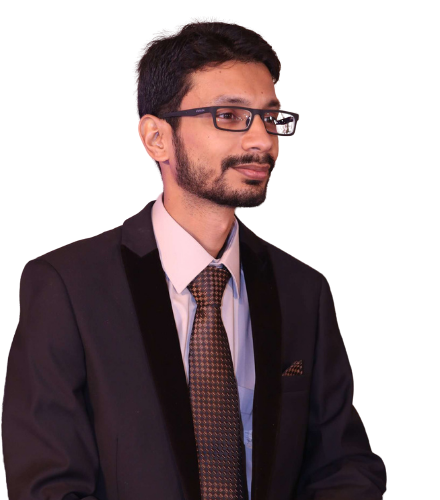
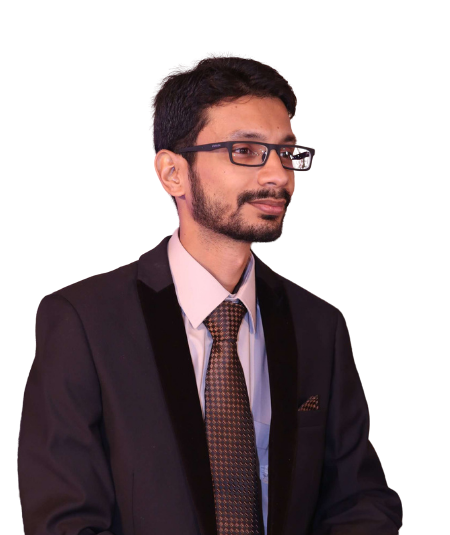
everything done except firebase

diff --git a/pages/about-us/our-team.jsx b/pages/about-us/our-team.jsx
@@ -2,7 +2,6 @@ import Head from 'next/head'
 import styles from '../../styles/OurTeam.module.scss'
 import { Container, Box, Grid, List, Divider, ListItem, ListItemText, ListItemIcon, Button, Stack } from '@mui/material'
 import { BrowserView, isDesktop, isMobile, MobileView } from 'react-device-detect';
-import { useEffect, useLayoutEffect, useState } from 'react';
 import Card from '@mui/material/Card';
 import CardActions from '@mui/material/CardActions';
 import CardContent from '@mui/material/CardContent';
@@ -13,23 +12,20 @@ import LinkedInIcon from '@mui/icons-material/LinkedIn';
 import Image from 'next/image';
 
 const OurTeam = () => {
-    const [source, setSource] = useState('');
-    useLayoutEffect(() => {
-        isMobile ? setSource('/ourteammobile.png') : setSource('/ourteamdesktop.png')
-    }, [])
     return (
         <>
-            <img src={source} width="100%" />
+            <Box sx={{ display: { xs: 'none', sm: 'flex' } }}><img src='/ourteamdesktop.png' width="100%" /></Box>
+            <Box sx={{ display: { xs: 'flex', sm: 'none' } }}><img src='/ourteammobile.png' width="100%" /></Box>
             <Container maxWidth="lg">
                 <Head>
                     <title>Our Team</title>
-                    <meta name="description" content="Generated by create next app" />
+                    <meta name="description" content="Magical Digits team" />
                     <link rel="icon" href="/favicon.ico" />
                     <link rel="preconnect" href="https://fonts.googleapis.com" />
                     <link rel="preconnect" href="https://fonts.gstatic.com" crossOrigin />
                     <link href="https://fonts.googleapis.com/css2?family=Dosis&display=swap" rel="stylesheet" />
                 </Head>
-                <h1 className={styles.heading}>Our Team.</h1>
+                <h1 className={styles.heading}>Our Team</h1>
                 <h6 className={styles.description2}>Individual dedication to a group effort is what makes a team, a company, a community, or a civilization work.
                     At Magical Digits we push each other to bring out the best in all of us. We believe in enjoying the process rather than concentrating solely on the goal.
                     We are a team of over 20 professionals who work both on-site and remotely.</h6>
@@ -54,7 +50,7 @@ const OurTeam = () => {
                             <CardContent sx={{ textAlign: 'center' }}>
                                 <h1 style={{ margin: 0 }}>Ozair Khalid</h1>
                                 <h3 style={{ margin: 0 }}>CEO</h3>
-                                <h4 style={{ margin: 0 }}>2002-present</h4>
+                                <h4 style={{ margin: 0 }}>2004-present</h4>
                             </CardContent>
                             <CardActions sx={{ justifyContent: 'center' }}>
                                 <a href='mailto:ozairkhalid@magicaldigits.com' target="_blank">
@@ -154,7 +150,7 @@ const OurTeam = () => {
                                 component="img"
                                 width='100%'
                                 height='400px'
-                                image="/staff/aa.png"
+                                image="/staff/aaa.png"
                                 alt="Abdullah Ansari"
                             />
                             <CardContent sx={{ textAlign: 'center' }}>
@@ -179,7 +175,7 @@ const OurTeam = () => {
                         </Card>
                     </Grid>
                     <Grid item xs={12} sm={6} md={4}>
-                        <Card>
+                        <Card elevation={4} sx={{m:1}}>
                             <CardMedia
                                 className={styles.img}
                                 component="img"

diff --git a/pages/careers.jsx b/pages/careers.jsx
@@ -13,6 +13,11 @@ import GroupsIcon from '@mui/icons-material/Groups';
 import CardGiftcardIcon from '@mui/icons-material/CardGiftcard';
 import MoneyIcon from '@mui/icons-material/Money';
 import WorkIcon from '@mui/icons-material/Work';
+import Dialog from '@mui/material/Dialog';
+import DialogActions from '@mui/material/DialogActions';
+import DialogContent from '@mui/material/DialogContent';
+import DialogContentText from '@mui/material/DialogContentText';
+import DialogTitle from '@mui/material/DialogTitle'
 
 export const getStaticProps = () => {
     const jobs = [
@@ -31,6 +36,15 @@ export const getStaticProps = () => {
 const Careers = ({ jobs }) => {
     const [searchText, setSearchText] = useState('');
     const [showResult, setShowResult] = useState(jobs);
+    const [openJob1, setOpenJob1] = useState(false);
+
+    const handleClickOpenJob1 = () => {
+        setOpenJob1(true);
+    };
+
+    const handleCloseJob1 = () => {
+        setOpenJob1(false);
+    };
 
     const handleSubmit = (event) => {
         event.preventDefault();
@@ -207,6 +221,7 @@ const Careers = ({ jobs }) => {
                                     color="secondary"
                                     className={styles.animatedButton}
                                     sx={{ mt: 1 }}
+                                    onClick={handleClickOpenJob1}
                                 >
                                     View Details
                                 </Button></Box>
@@ -214,7 +229,28 @@ const Careers = ({ jobs }) => {
                         </Grid>
                     )) : <h6 className={styles.description}>No jobs found for this keyword.</h6>}
                 </Grid>
-
+                <Dialog open={openJob1} onClose={handleCloseJob1}>
+                    <DialogTitle>Subscribe</DialogTitle>
+                    <DialogContent>
+                        <DialogContentText>
+                            To subscribe to this website, please enter your email address here. We
+                            will send updates occasionally.
+                        </DialogContentText>
+                        <TextField
+                            autoFocus
+                            margin="dense"
+                            id="name"
+                            label="Email Address"
+                            type="email"
+                            fullWidth
+                            variant="standard"
+                        />
+                    </DialogContent>
+                    <DialogActions>
+                        <Button onClick={handleCloseJob1}>Cancel</Button>
+                        <Button onClick={handleCloseJob1}>Subscribe</Button>
+                    </DialogActions>
+                </Dialog>
             </Container>
         </>
     )

diff --git a/styles/OurTeam.module.scss b/styles/OurTeam.module.scss
@@ -1,5 +1,5 @@
-$primary: #00478F;
-$secondary: #FF5D00;
+$primary: #000;
+$secondary: #00478F;
 
 
 .title,
@@ -25,7 +25,7 @@ $secondary: #FF5D00;
     position: absolute;
     top: 20vw;
     left: 30vw;
-    background: -webkit-linear-gradient($primary, #40AFFF);
+    background: -webkit-linear-gradient($secondary, #40AFFF);
     -webkit-background-clip: text;
     -webkit-text-fill-color: transparent;
     font-size: 10vw;
@@ -40,14 +40,15 @@ $secondary: #FF5D00;
 }
 
 .stats {
-    font-size: 6vw;
+    font-size: 60px;
     color: $primary;
 }
 
 .stats:hover {
-    font-size: 6vw;
+    font-size: 70px;
     color: $secondary;
 }
+
 
 .img {
     -webkit-transform: scale(1);
@@ -62,22 +63,18 @@ $secondary: #FF5D00;
     -webkit-transform: scale(1.1);
     -ms-transform: scale(1.1);
     transform: scale(1.1);
-    background-color:#00478F;
-  background-image: 
-    repeating-linear-gradient(
-      45deg,
-      rgba(0,0,0,0.8),
-      rgba(0,0,0,0.8) 100px,
-      transparent 0px,
-      transparent 200px
-    ),
-    repeating-linear-gradient(
-      -45deg,
-      rgba(0,0,0,0.5),
-      rgba(0,0,0,0.5) 100px,
-      transparent 0px,
-      transparent 200px
-    );
+    background-color: #00478F;
+    background-image:
+        repeating-linear-gradient(45deg,
+            rgba(0, 0, 0, 0.8),
+            rgba(0, 0, 0, 0.8) 100px,
+            transparent 0px,
+            transparent 200px),
+        repeating-linear-gradient(-45deg,
+            rgba(0, 0, 0, 0.5),
+            rgba(0, 0, 0, 0.5) 100px,
+            transparent 0px,
+            transparent 200px);
 }
 
 
@@ -86,8 +83,10 @@ $secondary: #FF5D00;
     .heading {
         position: absolute;
         top: 50vw;
-        left: 35vw;
-        font-size: 10vw;
-        color: rgba(255, 93, 0, 0.7);
+        left: 22vw;
+        font-size: 16vw;
+        background: -webkit-linear-gradient($secondary, #40AFFF);
+        -webkit-background-clip: text;
+        -webkit-text-fill-color: transparent;
     }
 }

diff --git a/pages/_app.jsx b/pages/_app.jsx
@@ -5,6 +5,7 @@ import createEmotionCache from '../utility/createEmotionCache';
 import lightTheme from '../styles/theme/lightTheme';
 import '../styles/globals.scss';
 import Layout from '../components/Layout';
+import CookieConsent from "react-cookie-consent";
 
 const clientSideEmotionCache = createEmotionCache();
 
@@ -17,6 +18,7 @@ function MyApp(props) {
         <CssBaseline />
         <Layout>
           <Component {...pageProps} />
+          <CookieConsent acceptOnScroll={true} acceptOnScrollPercentage={25} style={{ background: "#D2B298" }} buttonStyle={{background: '#fff'}}>This website uses cookies to enhance the user experience.</CookieConsent>
         </Layout>
       </ThemeProvider>
     </CacheProvider>

diff --git a/pages/services/desktop.jsx b/pages/services/desktop.jsx
@@ -15,7 +15,7 @@ const DesktopServices = () => {
           <Box sx={{ display: 'flex', flexDirection: 'column' }}>
             <h5 className={styles.heading}>Desktop Development</h5>
             <h6 className={styles.description}>
-              To understand and meet your requirements, our battle-tested web development team utilises both latest and legacy tools.
+             We've been in the desktop development business for 20 years now, consequently it is our area of expertise.
             </h6>
             <Button href="#getintouch" className={styles.animatedButton} variant="outlined" color="secondary" sx={{ textTransform: 'none', justifySelf: 'center' }}>Get In Touch</Button>
           </Box>

diff --git a/pages/services/mobile.jsx b/pages/services/mobile.jsx
@@ -15,7 +15,7 @@ const MobileServices = () => {
           <Box sx={{ display: 'flex', flexDirection: 'column' }}>
             <h5 className={styles.heading}>Mobile Development</h5>
             <h6 className={styles.description}>
-              To understand and meet your requirements, our battle-tested web development team utilises both latest and legacy tools.
+              We use cutting-edge tools to program native mobile applications.
             </h6>
             <Button href="#getintouch" className={styles.animatedButton} variant="outlined" color="secondary" sx={{ textTransform: 'none', justifySelf: 'center' }}>Get In Touch</Button>
           </Box>
